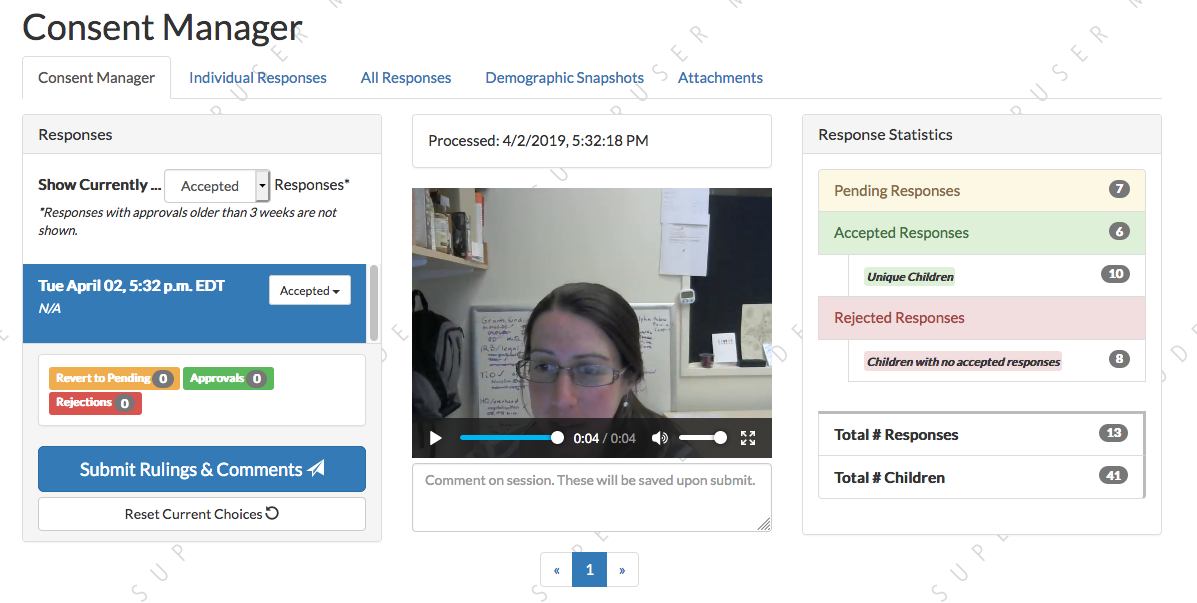
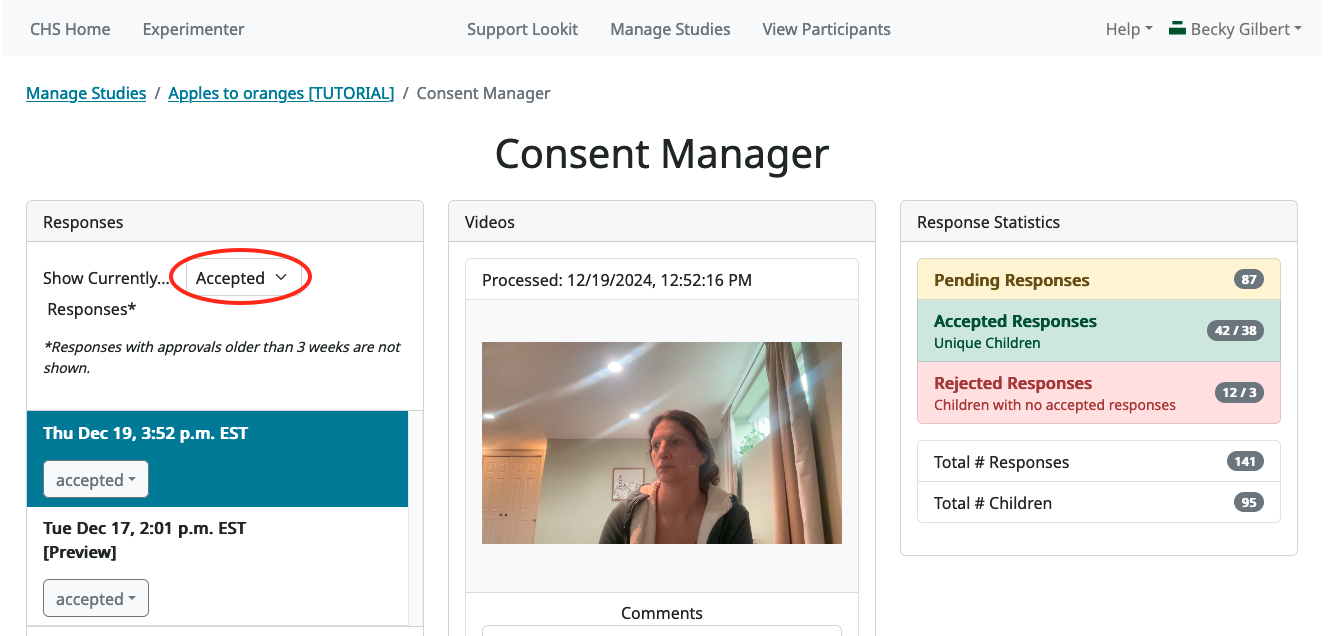
update individual responses section

diff --git a/docs/source/tutorial-manage-data.rst b/docs/source/tutorial-manage-data.rst
@@ -119,37 +119,63 @@ In the Slack #tutorial channel, post a request for access to the "Apples to oran
 Checking for informed consent and giving feedback
 -------------------------------------------------
 
-The first page you see when you click "View Responses" is called the Consent Manager, and it should look something like this - with your own consent video (and maybe some others) displayed.
+From the study details page, click the "Review Consent" button in the set of buttons on the right. 
+
+.. image:: _static/img/tutorial/review_consent_button.png
+    :alt: The review consent button
+
+This takes you to the Consent Manager page. As data comes in, your first step will always be to check whether the parent provided informed consent. You do that here in the Consent Manager, which by default shows you the "pending" consent videos for review. In the left column, you'll click on each session to bring up the associated consent video(s) at the center and additional information at the bottom of the page. You can use the dropdown menu to decide whether to "accept" (mark this as valid consent) or "reject" (mark as invalid consent) each video. If you want to add any notes about the consent video, you can record comments in the text box beneath the video. For instance, you might note that there was a technical problem with the video, but you contacted the parent to confirm consent for this session (and mention where to find the parent's email that confirms consent).
 
 .. image:: _static/img/tutorial/consent_manager.png
     :alt: The consent manager view
-    
-As data comes in, your first step will always be to check whether the parent provided informed consent. You do that here in the consent manager, which by default shows you the "pending" consent videos for review. In the left column, you'll click on each session to bring up the associated consent video at the center. You can use the dropdown menu to decide whether to "accept" (mark this as valid consent) or "reject" (mark as invalid consent) each video. If you want to add any notes about the consent video, you can record comments in the text box beneath the video - for instance, you might note that there was a technical problem with the video, but you contacted the parent to confirm consent.
 
-For now, just mark your own video that you just made as "Accepted." Then click "Submit Rulings & Comments". This saves your consent coding to the CHS server. (In case it matters to your IRB: A record of which logged-in user made each consent determination and when is also stored.) 
+For now, just mark your own video that you just made as "Accepted." Then click "Submit Rulings & Comments". This saves your consent coding to the CHS server. (In case it matters to your IRB: this also creates a record of which logged-in researcher made each consent determination and when.) 
 
-In the Consent Manager, you can now use the top drop-down menu to view currently "accepted" responses, and you should be able to see your own video there:
+Now if you use the drop-down menu at the top of the "Responses" column to view currently "accepted" responses, and you should be able to see your own video there:
 
 .. image:: _static/img/tutorial/accepted_responses.png
     :alt: Accepted responses in consent manager
     
-If you needed to, you could still change the ruling about this consent video, in case you made a mistake.
+If there was a mistake about the consent ruling for a video, you can always change it again and click "Submit Rulings & Comments" to save your changes.
 
-You may notice that, compared with before, there's now more information displayed beneath your video when you select your consent video and scroll down! That's because, once you mark it as having valid consent, all the session data becomes available to you.
+Individual responses
+-------------------------------------------------
 
-Click the "individual responses" tab to take a look at the data that's been collected on this study in some more detail:
+Once you mark a response as having valid consent, all the data from that session becomes available to you in the Responses pages. Go back to the "Apples to oranges" study detail page and click on the "Study responses" button:
+
+.. image:: _static/img/tutorial/study_responses_button.png
+    :alt: Study responses button
+
+This will take you to the "All Responses" page. You will see some other tabs toward the top of the page - click the "Individual Responses" tab to take a look at the individual session data that's been collected on this study in some more detail:
+
+.. image:: _static/img/tutorial/individual_responses_tab.png
+    :alt: Individual responses tab
+
+On the Individual Responses page, you will see a table where each row represents a single response session. The top (most recent) response will be selected automatically when the page loads. You can click on other rows to view and download information about each response.
+
+Your own response will probably be the top one. To check, with the top row selected, find the "**Response details**" box, and look at the "Parent name" and "Child name" values. This "Response details" box contains various other IDs and some key information taken from the exit survey. Try clicking on other rows in the table to see how the response details change.
 
 .. image:: _static/img/tutorial/individual_responses.png
     :alt: Individual responses view
-    
-The top response in the table will probably be your own response that you accepted just now. With that row selected, you'll see a JSON version of data collected during the session displayed and a list of videos collected during the session. If you scroll to the bottom of the JSON data, you'll see information about the most recent consent ruling and the child who participated, so you can check who this is.
 
-There's also a box where you can provide feedback to the participant. This feedback gets displayed on the participant's "past studies" page and is a good place to leave a short but personal thank-you message that shows a human has seen and appreciates their videos. Try it out! Leave a feedback message on your own video.
+The "**Download response**" box allows you to download the data from the selected response in JSON or CSV format.
+
+The "**Videos**" box allows you to view and download any videos associated with the selected response.
+
+There's also a "**Feedback**" box where you can leave new feedback to the participant and any view existing feedback about this session. The feedback gets displayed to that specific participant on their "Past Studies" page. It's a good place to leave a short but personal thank-you message that shows a human has seen and appreciates their videos. Try it out! Leave a feedback message on your own video.
 
 .. image:: _static/img/tutorial/feedback.png
     :alt: Feedback box
 
-Then go back to the participant-facing site, and find that feedback under "Studies" -> "Your past studies."
+After you create a feedback comment for a response session, you will be able to view and add/edit your feedback comments on this same page.
+
+.. image:: _static/img/tutorial/existing_feedback.png
+    :alt: Feedback box with existing feedback
+
+Go back to the participant-facing site ("CHS Home" button) and find your study history ("My Past Studies" button). You should see the "Apples to oranges" study information, and below that, a "Study Responses" heading with all of the study sessions you've done for that study. This is where families will be able to see your feedback on their session, along with their own videos and other information.
+
+.. image:: _static/img/tutorial/participant_view_feedback.png
+    :alt: Pariticpant view of researcher feedback on studies history page
 
 .. admonition:: For more practice
 
